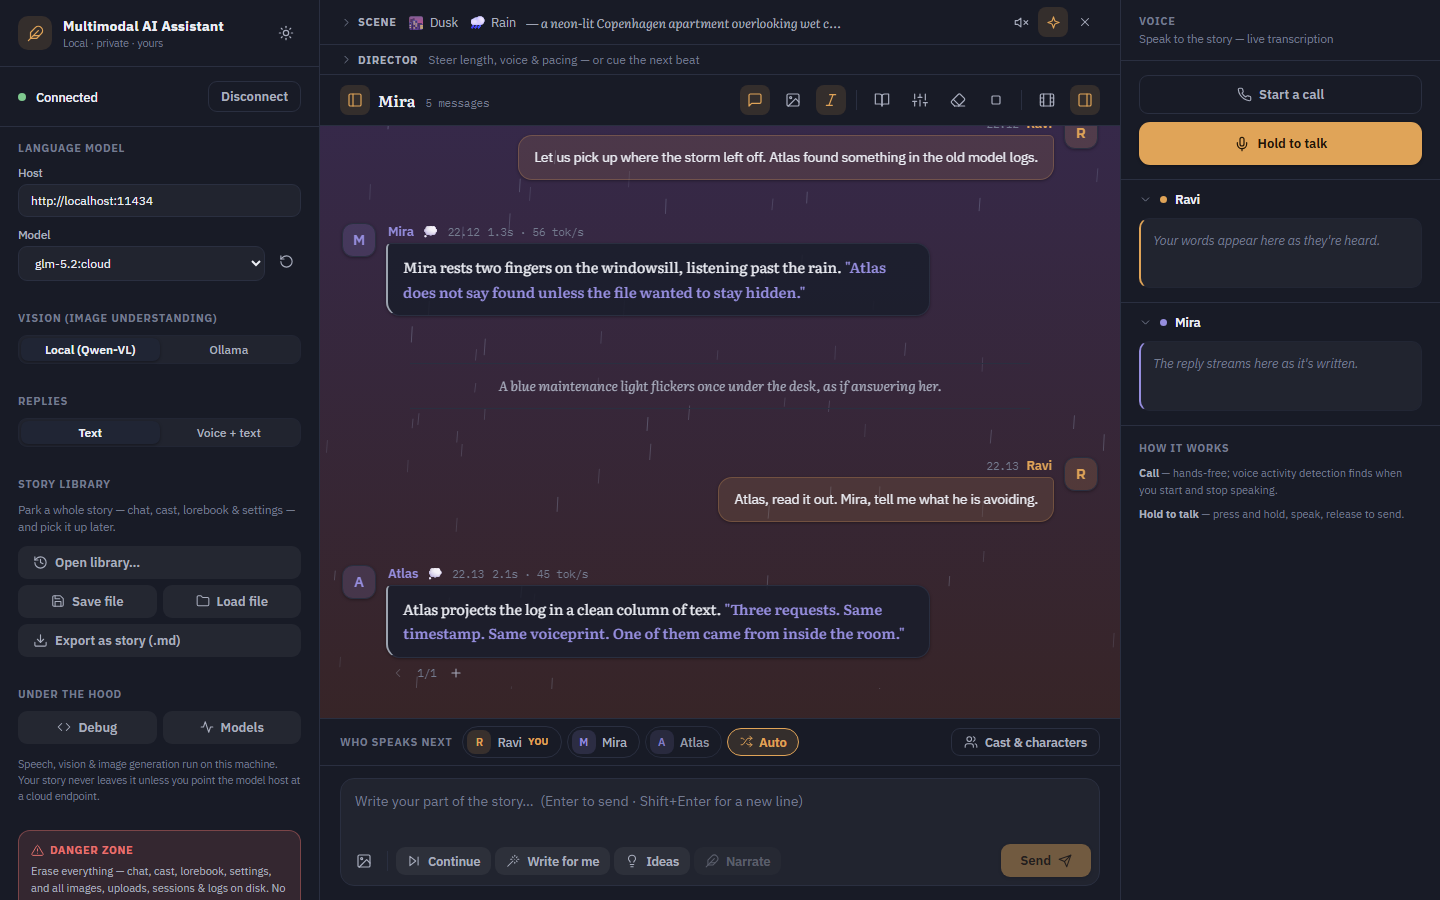
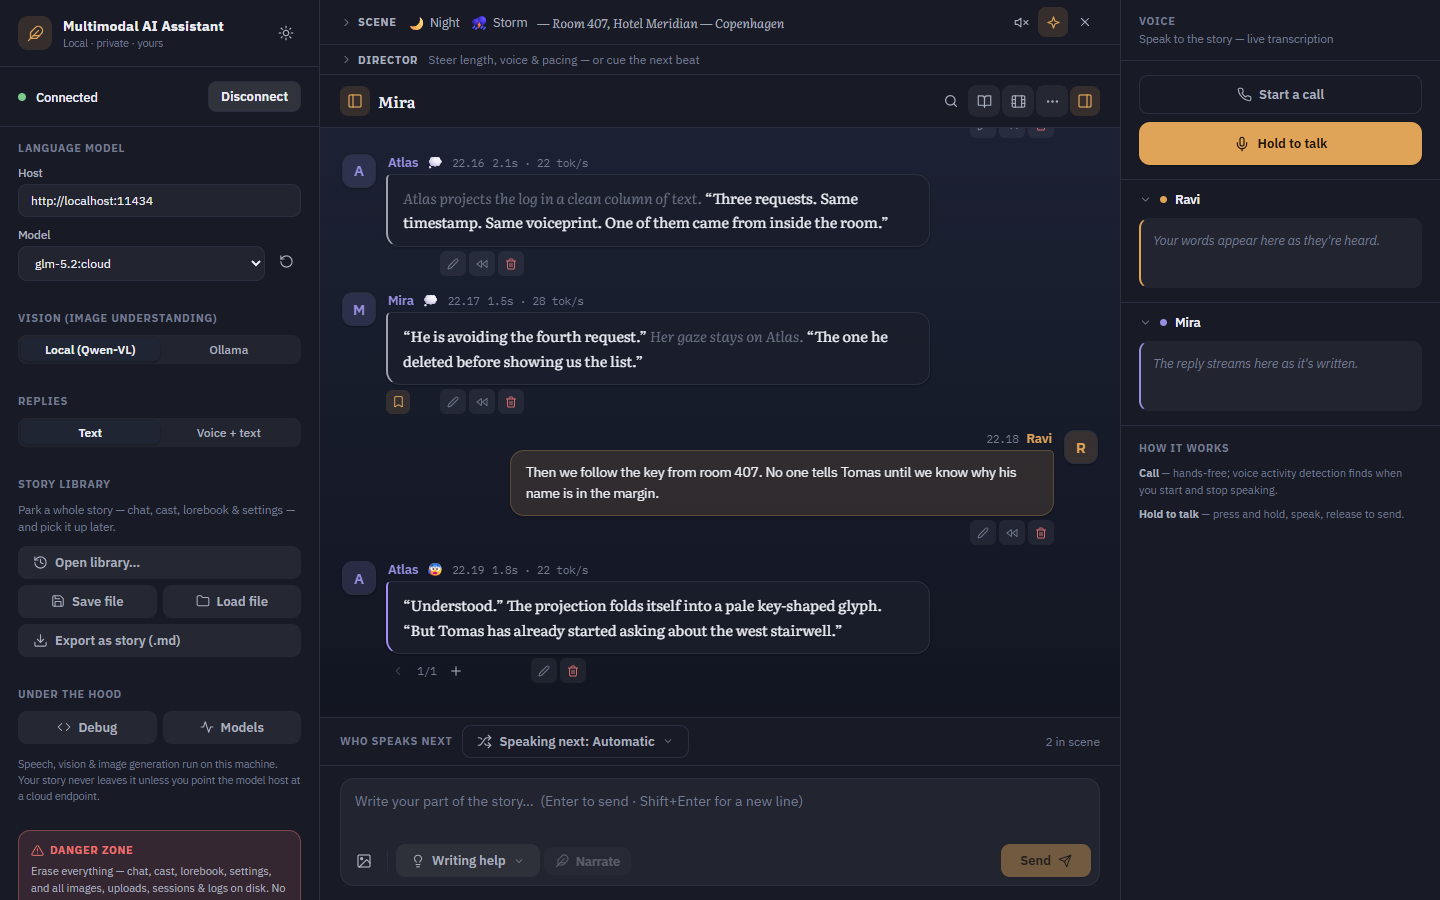
updated the readme doc with new images

diff --git a/README.md b/README.md
@@ -10,17 +10,21 @@ Ever wanted an AI assistant, one that you can set a personality and interact ? O
 
 ## App Preview
 
-Here is the redesigned story workspace running with demo conversation data: local model controls, scene/director tools, live weather effects, auto-cast, reply stats, realtime voice controls, and the chat composer all in one view.
+The story workspace keeps local model and voice controls around a focused, cinematic transcript. Scene and director controls stay close to the story, while the Story menu gathers the deeper tools for memory, continuity, open plot threads, character knowledge, and evolving characterization.
 
-![Multimodal AI Assistant redesigned story workspace with demo conversation data](docs/app-screenshot.png)
+![Multimodal AI Assistant story workspace showing a multi-character mystery scene, atmospheric scene controls, automatic casting, voice controls, and the chat composer](docs/app-screenshot.png)
 
-| Scene controls | Story library |
+| Story controls | Story navigator |
 | --- | --- |
-| ![Scene controls with time, weather, location, and auto-scene options](docs/scene-controls-screenshot.png) | ![Story library modal with saved local sessions](docs/story-library-screenshot.png) |
+| ![Story menu showing Story Threads, Lorebook, Story Memory, Story Canon, Sightlines, Character Study, and Story Settings](docs/story-controls-screenshot.png) | ![Story Navigator searching dialogue across speakers with bookmarked moments](docs/story-navigator-screenshot.png) |
 
-| Cast & characters |
+| Story threads | Sightlines |
+| --- | --- |
+| ![Story Threads workspace tracking pinned mysteries, goals, secrets, and archived threads](docs/story-threads-screenshot.png) | ![Sightlines workspace showing who knows each secret and what is withheld from other characters or the user](docs/sightlines-screenshot.png) |
+
+| Character study |
 | --- |
-| ![Cast and character manager showing per-character settings and in-scene toggles](docs/cast-manager-screenshot.png) |
+| ![Character Study inside the cast manager with evidence-backed voice, manner, and relationship observations](docs/character-study-screenshot.png) |
 
 ## Key Features
 
